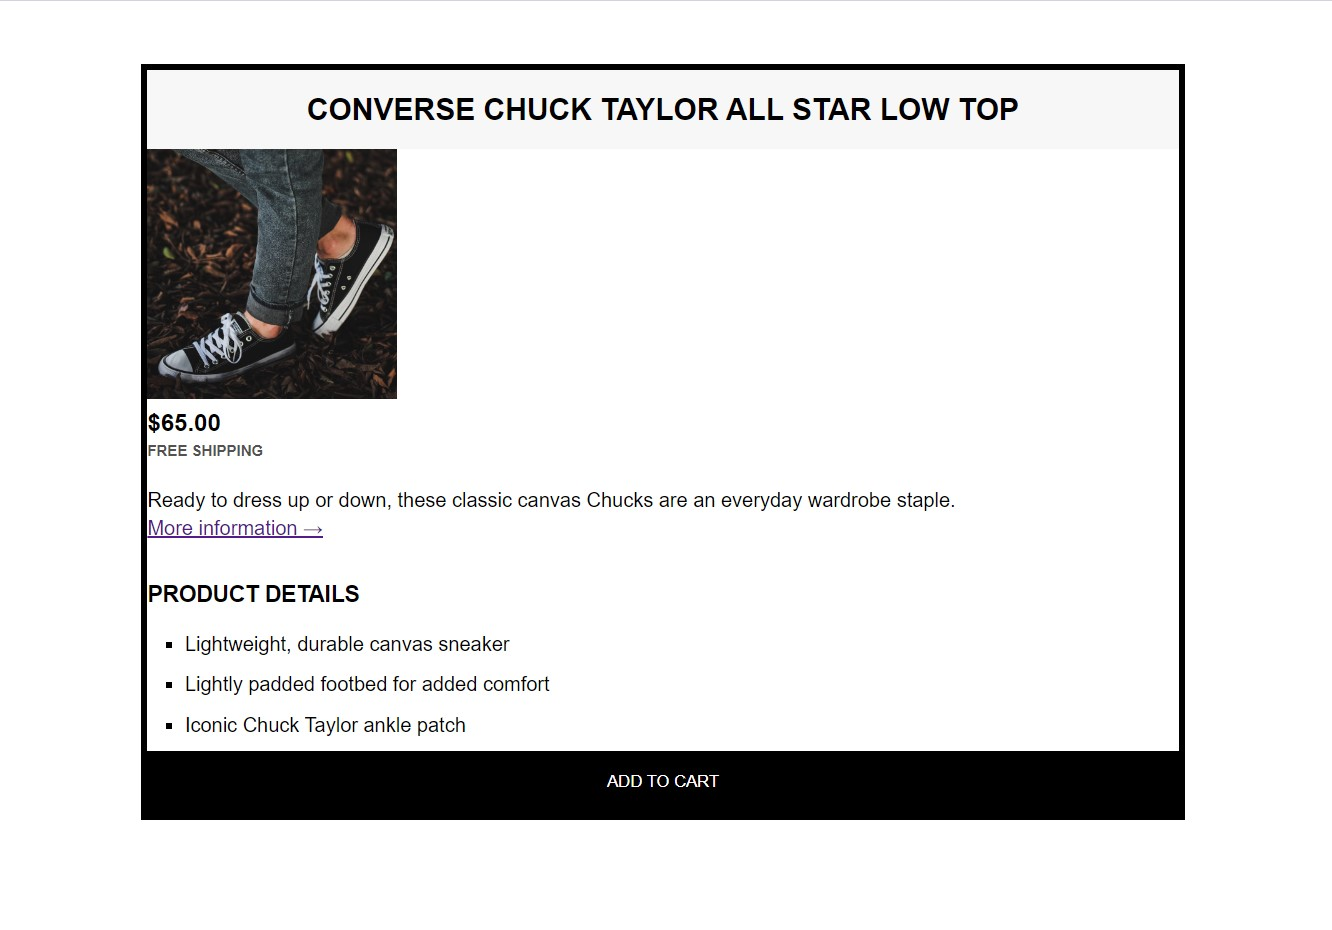
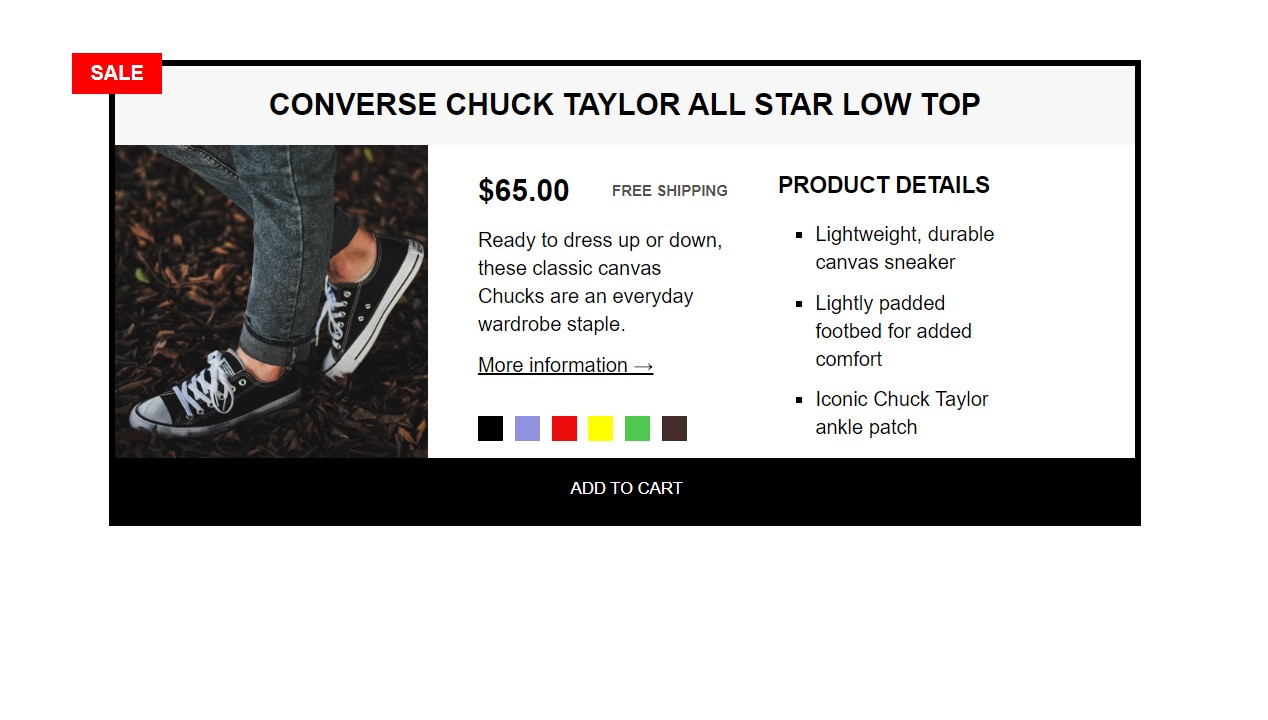
updated photo to new one

diff --git a/README.md b/README.md
@@ -24,8 +24,8 @@ width="550">
 <h2>CSS Challenge</h2>
 <p>It's the same page which i made in HTML challenge, but in this 3 challenges i added CSS. While doing this page i learned the fundamentals of CSS like selectors (id, class, element) priority, working with colors and pseudo-classes. I also got to know about adding dimensions, centering page, absolute positioning, types of boxes, pseudo-elements. I practiced developer skills like googling and reading documentation.
 <h3>Here are the effects:</h3>
-<img src="/HTML-Fundamentals/materials/css-challenge3.jpg"
-height="400"
-width="500">
+<img src="/HTML-Fundamentals/materials/css-challenge.jpg"
+height="720"
+width="1268">
 
 ## [Link to the page 😊](https://warm-bonbon-8a0666.netlify.app/)
